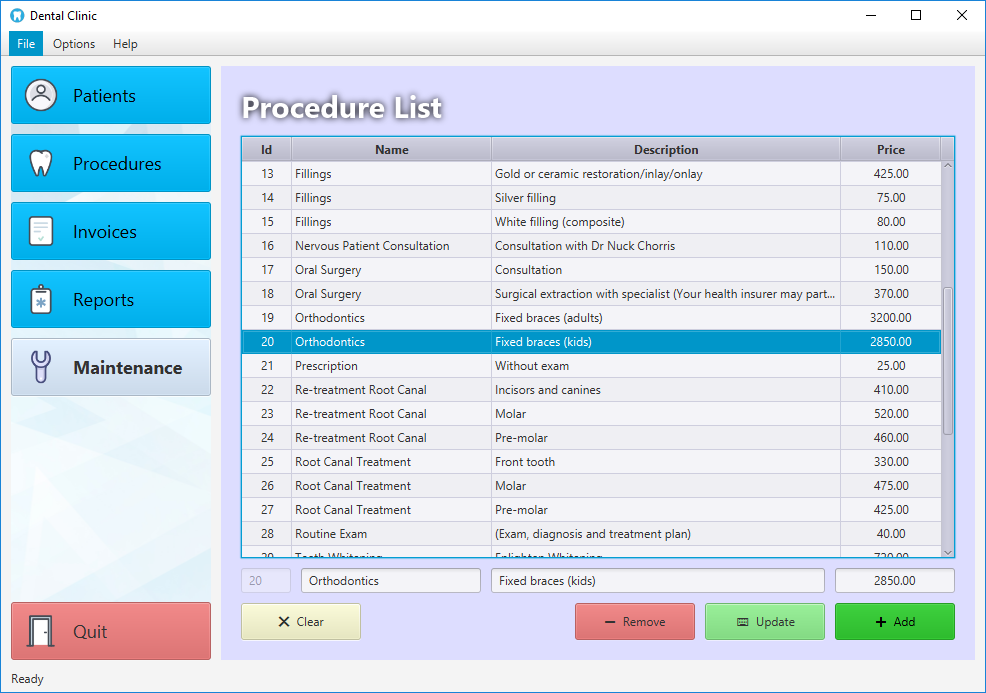
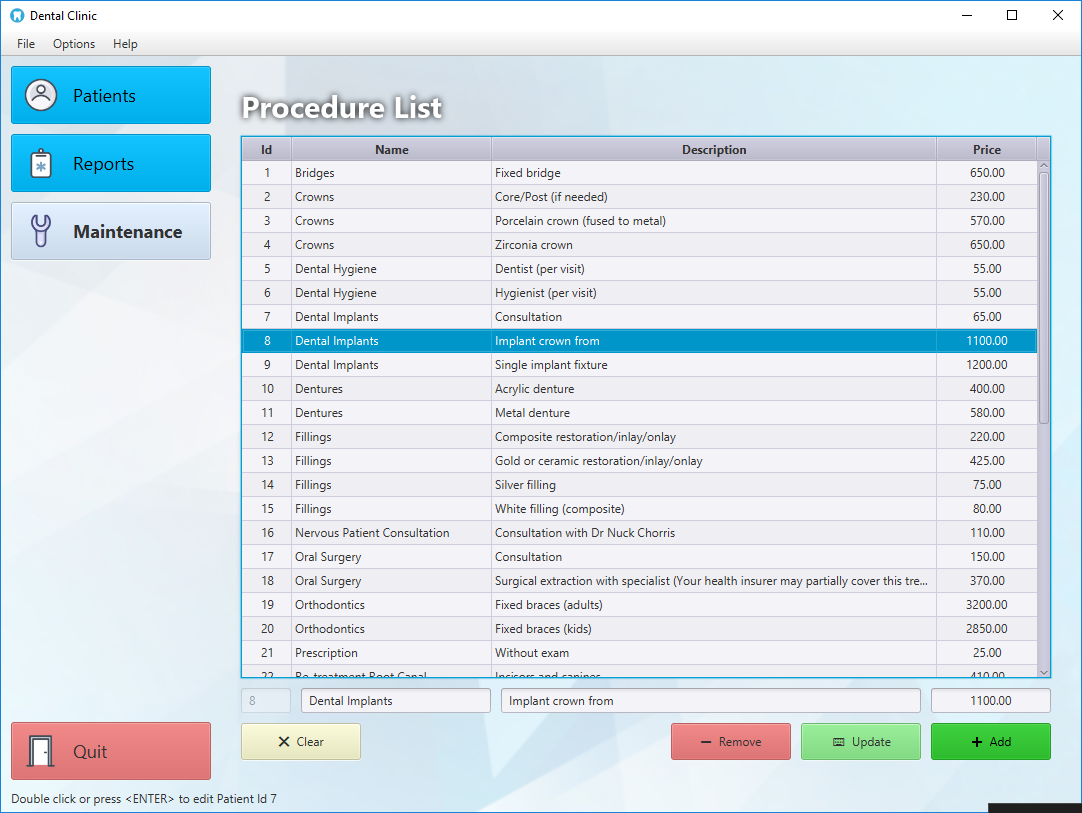
Updated backgrounds and screenshots

diff --git a/Dental-Clinic/src/view/ReportsScreen.java b/Dental-Clinic/src/view/ReportsScreen.java
@@ -20,11 +20,13 @@ import javafx.scene.control.TableColumn;
 import javafx.scene.control.TableView;
 import javafx.scene.control.TextField;
 import javafx.scene.control.Tooltip;
+import javafx.scene.effect.DropShadow;
 import javafx.scene.input.KeyCode;
 import javafx.scene.layout.HBox;
 import javafx.scene.layout.Pane;
 import javafx.scene.layout.Priority;
 import javafx.scene.layout.VBox;
+import javafx.scene.paint.Color;
 import javafx.scene.text.Font;
 import javafx.scene.text.FontWeight;
 import javafx.scene.text.Text;
@@ -67,9 +69,6 @@ public class ReportsScreen extends Pane {
 		controller = MainScreen.getInstance().getController();
 		pane = new VBox(10);
 		pane.setPadding(new Insets(20));
-		pane.setStyle("-fx-background-color: #DDEEFF");
-		pane.setStyle(
-				"-fx-background-image: url(" + "'/assets/background.png'" + "); -fx-background-size: cover;");
 		title = new MyTitle("Reports");
 		btnRefresh = new MyButton("Refresh");
 		btnRefresh.setIcon("report.png");
@@ -111,8 +110,14 @@ public class ReportsScreen extends Pane {
 		reportText.setStyle("-fx-background-color: WHITE;");
 		resultText.setFitToWidth(true);
 		resultText.setFitToHeight(true);
-		resultText.setPadding(new Insets(20));
+//		resultText.setPadding(new Insets(20));
 		reportText.setPadding(new Insets(40));
+		
+		DropShadow shadow = new DropShadow();
+		shadow.setOffsetY(0.0f);
+		shadow.setOffsetX(0.0f);
+		shadow.setColor(Color.BLACK);
+		resultText.setEffect(shadow);
 		
 		Text mainTitle = new Text("Results report\n\n");
 		Text title = new Text("");

diff --git a/Dental-Clinic/src/view/MainScreen.java b/Dental-Clinic/src/view/MainScreen.java
@@ -87,6 +87,8 @@ public class MainScreen {
 		scene = new Scene(root, WIDTH, HEIGHT);
 		
 		root.setStyle("-fx-background-color: WHITE");
+		root.setStyle(
+				"-fx-background-image: url(" + "'/assets/background.png'" + "); -fx-background-size: cover;");
 		
 		setupStage();
 		setupMenu();
@@ -150,17 +152,17 @@ public class MainScreen {
 		Region spacing = new Region();
         VBox.setVgrow(spacing, Priority.ALWAYS);
 		mainAreaLeft.getChildren().addAll(btnPatients, btnReports, btnMaintenance, spacing, btnSave, btnSaveQuit, btnQuit);
-		BackgroundImage bgImage = new BackgroundImage(
-				new Image("/assets/background.png"), 
-				BackgroundRepeat.NO_REPEAT,
-                BackgroundRepeat.NO_REPEAT,
-				BackgroundPosition.CENTER, 
-				BackgroundSize.DEFAULT
-				);
-		
-		Background bg = new Background(bgImage);
-		mainAreaLeft.setBackground(bg);
-		root.setBackground(bg);
+//		BackgroundImage bgImage = new BackgroundImage(
+//				new Image("/assets/background.png"), 
+//				BackgroundRepeat.NO_REPEAT,
+//                BackgroundRepeat.NO_REPEAT,
+//				BackgroundPosition.CENTER, 
+//				BackgroundSize.DEFAULT
+//				);
+//		
+//		Background bg = new Background(bgImage);
+//		mainAreaLeft.setBackground(bg);
+//		root.setBackground(bg);
 	}
 
 	private void setupStatusBar() {

diff --git a/Dental-Clinic/src/view/PatientsScreen.java b/Dental-Clinic/src/view/PatientsScreen.java
@@ -69,9 +69,6 @@ public class PatientsScreen extends Pane {
 		pane = new VBox(10);
 		pane.getChildren().clear();
 		pane.setPadding(new Insets(20));
-		pane.setStyle("-fx-background-color: #DDEEFF");
-		pane.setStyle(
-				"-fx-background-image: url(" + "'/assets/background.png'" + "); -fx-background-size: cover;");
 
 		// Title
 		title = new MyTitle("Patients");

diff --git a/Dental-Clinic/src/view/MaintenanceScreen.java b/Dental-Clinic/src/view/MaintenanceScreen.java
@@ -65,9 +65,6 @@ public class MaintenanceScreen extends Pane {
 		
 		pane = new VBox(10);
 		pane.setPadding(new Insets(20));
-		pane.setStyle("-fx-background-color: #DDEEFF");
-		pane.setStyle(
-				"-fx-background-image: url(" + "'/assets/background.png'" + "); -fx-background-size: cover;");
 
 		title = new MyTitle("Procedure List");
 		//Table
